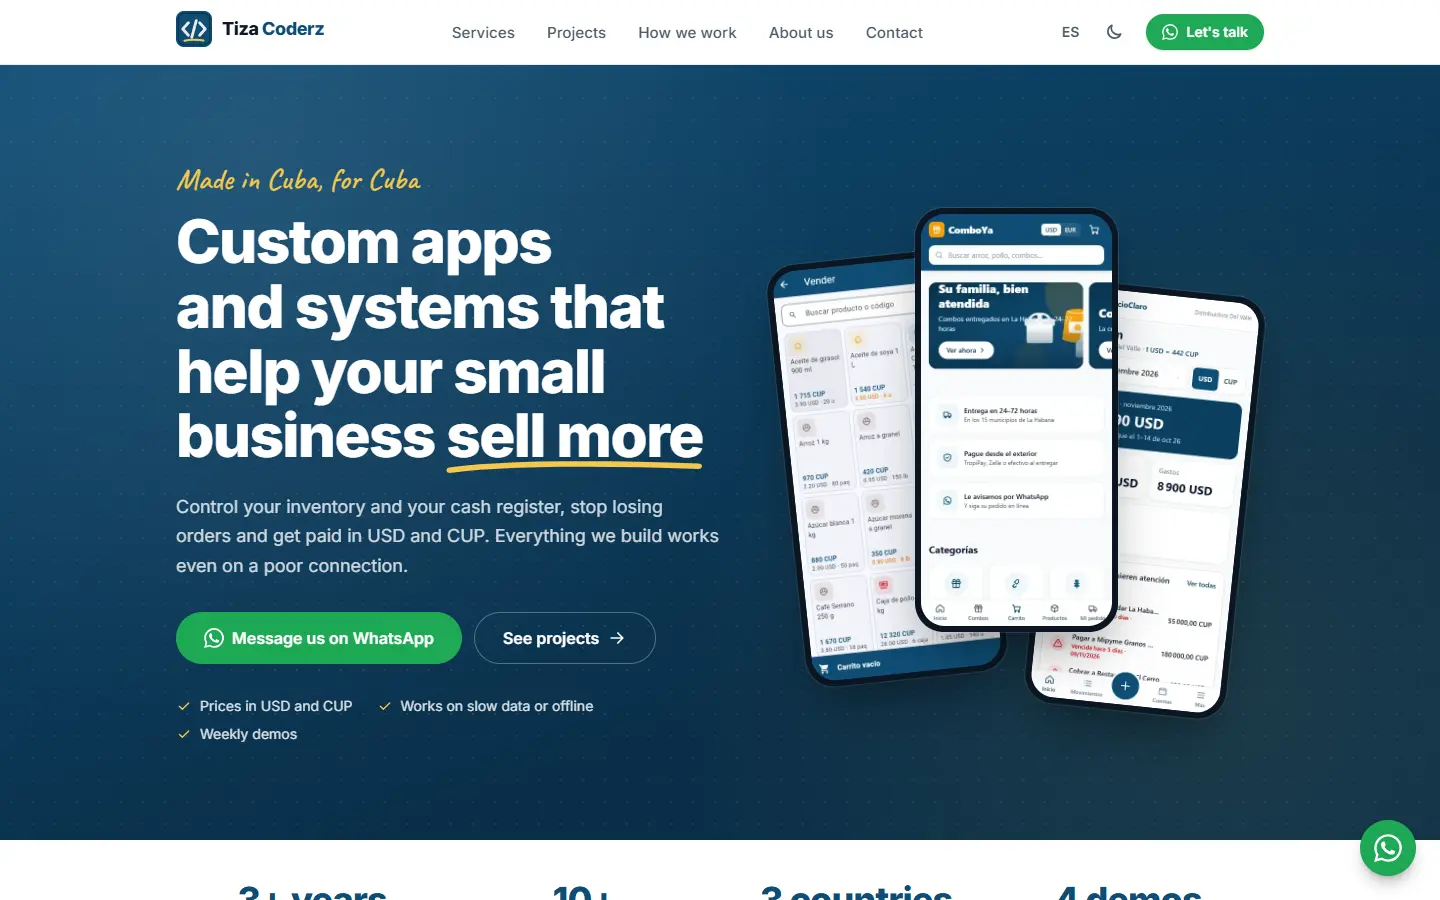
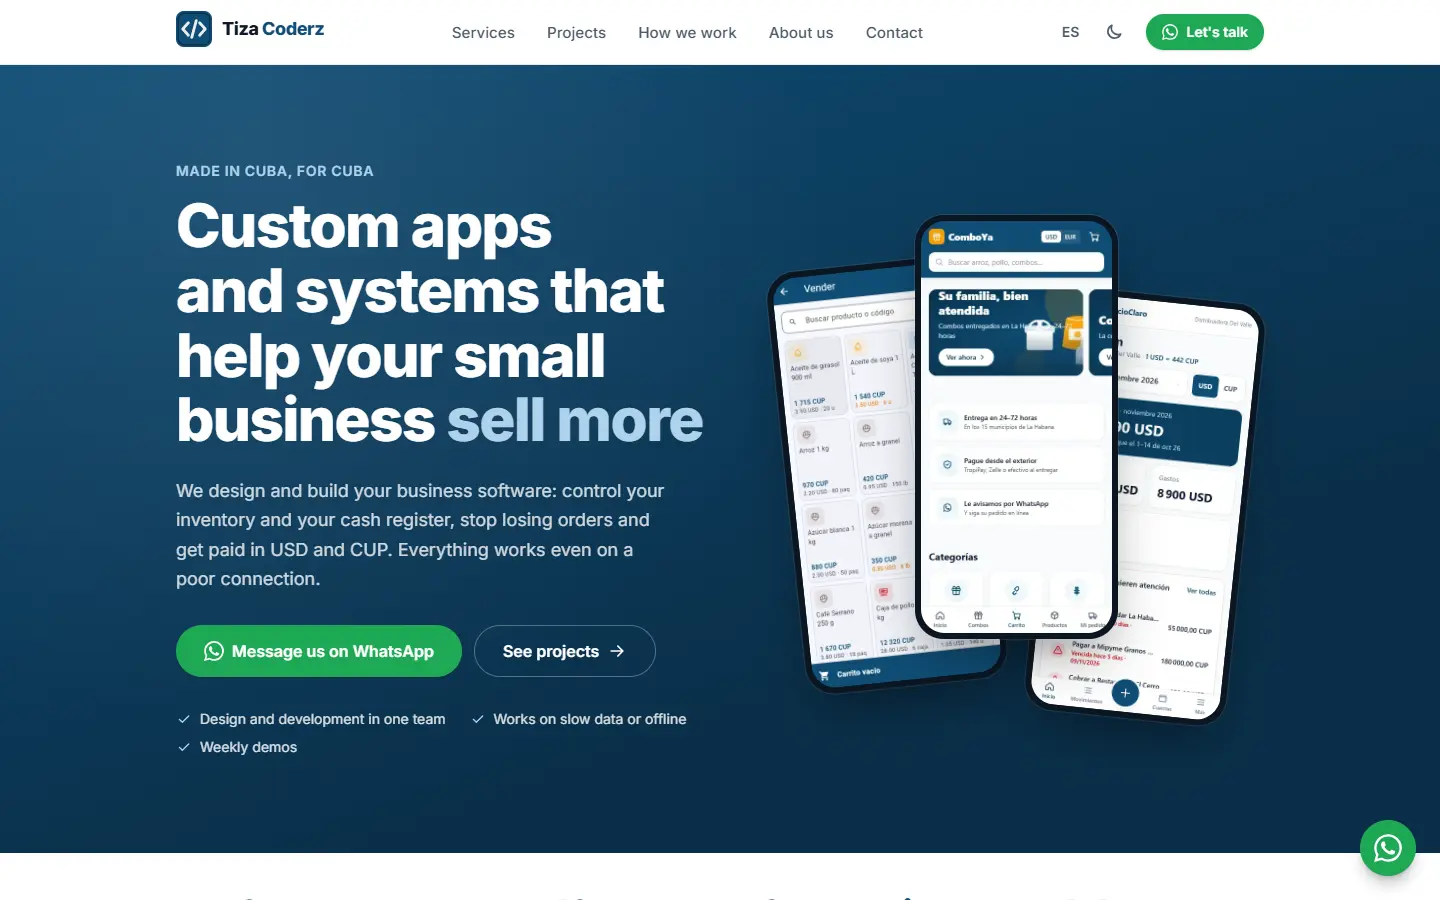
docs: actualiza README, CHANGELOG y capturas al nuevo diseño

Changed region(s): [[0.125, 0.1867, 0.5, 0.84], [0.5312, 0.2178, 0.875, 0.8089], [0.0, 0.9333, 1.0, 1.0]]

diff --git a/README.md b/README.md
@@ -4,8 +4,7 @@
 
 # Tiza Coderz · Web corporativa
 
-**Apps, webs y sistemas a la medida para mipymes cubanas.**
-_Del boceto en tiza al software que vende._
+**Diseño, apps, webs y sistemas a la medida para mipymes cubanas.**
 
 [![CI](https://github.com/Tiza-Coderz/tiza-coderz.github.io/actions/workflows/ci.yml/badge.svg?branch=develop)](https://github.com/Tiza-Coderz/tiza-coderz.github.io/actions/workflows/ci.yml)
 [![Deploy](https://github.com/Tiza-Coderz/tiza-coderz.github.io/actions/workflows/deploy.yml/badge.svg)](https://github.com/Tiza-Coderz/tiza-coderz.github.io/actions/workflows/deploy.yml)
@@ -39,7 +38,7 @@ Esta web es la **oficina en línea del estudio Tiza Coderz**. Su trabajo es conv
 | 🗂 **Portafolio**        | Grid filtrable por sector (`?sector=ecommerce` compartible). Cada proyecto es un MDX en [`content/projects/`](content/projects) con frontmatter validado.                                                                                                                                                      |
 | 📄 **Casos de estudio**  | `/proyectos/[slug]`: Problema → Solución → Resultado → Capturas → Stack → Enlaces, con credenciales demo, imagen Open Graph propia y JSON-LD.                                                                                                                                                                  |
 | 🧭 **Proceso**           | 1 Conversación · 2 Propuesta · 3 Diseño · 4 Desarrollo con demos semanales · 5 Entrega y mantenimiento ([`data/process.ts`](data/process.ts)).                                                                                                                                                                 |
-| 🏢 **Nosotros**          | Historia del nombre, misión, valores, equipo (fundador con [CV en PDF](public/cv.pdf)) y colaboradores.                                                                                                                                                                                                        |
+| 🏢 **Nosotros**          | Presentación del estudio, misión, valores, equipo (fundador con [CV en PDF](public/cv.pdf)) y colaboradores.                                                                                                                                                                                                   |
 | ✉ **Contacto**          | WhatsApp, correo, ubicación y formulario accesible: envía por **Formspree** si está configurado; si no, abre **WhatsApp** o el **correo** con el mensaje ya escrito. Estados de envío, éxito y error de red/servidor.                                                                                          |
 | 💬 **Testimonios**       | Array editable en [`data/testimonials.ts`](data/testimonials.ts). La sección se oculta mientras esté vacío (solo testimonios reales).                                                                                                                                                                          |
 | 🌐 **ES / EN**           | Diccionarios tipados (`en.ts` debe tener las mismas claves que `es.ts`; lo comprueban TypeScript y un test). Español por defecto.                                                                                                                                                                              |
@@ -79,7 +78,7 @@ Se regeneran con `pnpm build && pnpm shots /es/ /es/servicios/ …` (ver [Script
 | ----------- | ------------------------------------------------------------------------------------------------------- |
 | Framework   | **Next.js 16** (App Router, `output: 'export'`: HTML estático, sin servidor)                            |
 | Lenguaje    | **TypeScript** estricto (`strict` + `noUncheckedIndexedAccess`)                                         |
-| Estilos     | **Tailwind CSS 4** con tokens de marca, Inter + Caveat autoalojadas, iconos SVG en línea                |
+| Estilos     | **Tailwind CSS 4** con tokens de marca, fuente Inter autoalojada, iconos SVG en línea                   |
 | Contenido   | **MDX** (`@mdx-js/mdx` + `remark-gfm`) compilado en el build, frontmatter con **gray-matter** + **Zod** |
 | Formularios | **Formspree** (opcional) · WhatsApp (`wa.me`) · `mailto`                                                |
 | Calidad     | ESLint, Prettier (+ orden de clases Tailwind), **Vitest** (69 tests)                                    |

diff --git a/CHANGELOG.md b/CHANGELOG.md
@@ -6,6 +6,17 @@ Todos los cambios relevantes de este proyecto. Formato basado en
 
 ## [Sin publicar]
 
+### Cambiado
+
+- Diseño más sobrio: se elimina la tipografía manuscrita y todos los adornos «de tiza» (subrayados a mano, trazos amarillos, textura de puntos, trazo del logo). Se mantiene la estructura, el azul de marca y el amarillo como color de acento.
+- El eslogan deja de mostrarse en el pie, en la banda de contacto, en los datos estructurados y en las imágenes para compartir.
+- «Cómo trabajamos» ya no muestra la duración de cada etapa.
+- Portadas, imágenes Open Graph, iconos y capturas de la documentación regenerados con el nuevo estilo.
+
+### Eliminado
+
+- Sección «¿Por qué Tiza?» de Nosotros.
+
 ## [1.2.0] - 2026-11-20
 
 ### Añadido
